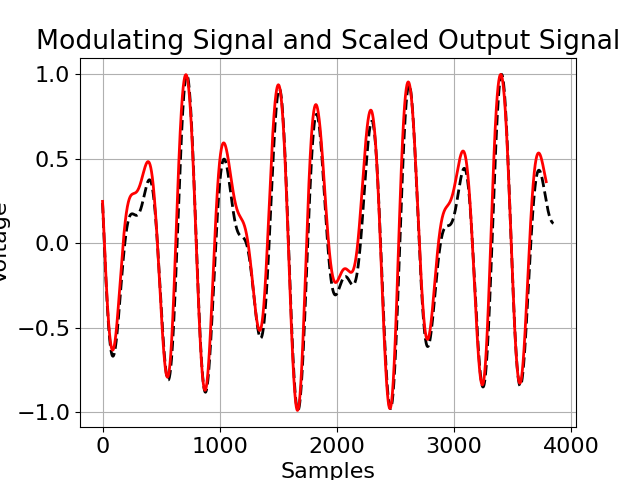
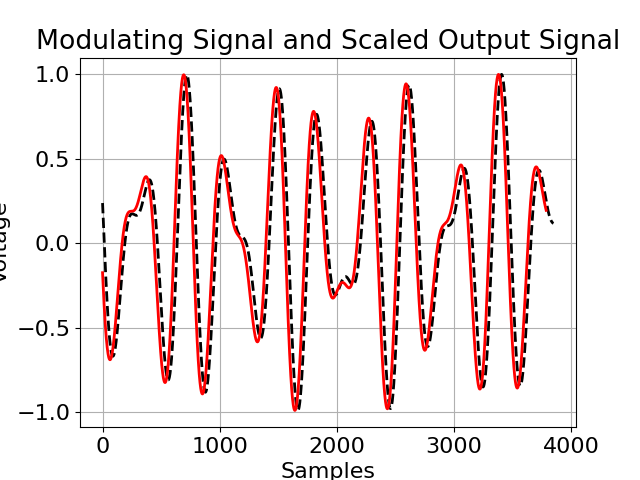
Updated LPF. Used wide range LPF (passband - 0.1fs; stopband - 0.35*fs)

Changed region(s): [[0.1562, 0.1562, 0.6875, 0.875], [0.6875, 0.1562, 0.875, 0.8125]]

diff --git a/demodulator_nfm/demodulator_nfm.py b/demodulator_nfm/demodulator_nfm.py
@@ -8,9 +8,15 @@ class DemodulatorNFM():
         # Digital Filter coefficients
         # LPF, IIR, Order 1. Pass band 0.01*fs, Stop band 0.1*fs, attenuation in stop band -20dB.
         # Numerator coefficients
-        self.DF_BCOEF = [0.03054, 0.03054]
+        # self.DF_BCOEF = [0.03054, 0.03054]
+        # # Denumerator coefficients
+        # self.DF_ACOEF = [1.0, -0.9389]
+
+        # LPF, IIR, Order 1. Pass band 0.1*fs, Stop band 0.35*fs, attenuation in stop band -20dB.
+        # Numerator coefficients
+        self.DF_BCOEF = [0.1584, 0.1584]
         # Denumerator coefficients
-        self.DF_ACOEF = [1.0, -0.9389]
+        self.DF_ACOEF = [1.0, -0.6832]
 
         self.sampling_freq = sampling_freq
         self.localosc_sampling_freq = int(sampling_freq / oversampling_ratio)

diff --git a/demodulator_nfm/demodulator_model.py b/demodulator_nfm/demodulator_model.py
@@ -31,9 +31,15 @@ max_phase_deviation = FM1_FREQ_SENSITIVITY * (DISCRIMINATOR_DELAY / SAMPLING_FRE
 # Digital Filter coefficients
 # LPF, IIR, Order 1. Pass band 0.01*fs, Stop band 0.1*fs, attenuation in stop band -20dB.
 # Numerator coefficients
-DF_BCOEF = [ 0.03054, 0.03054 ]
+# DF_BCOEF = [ 0.03054, 0.03054 ]
+# # Denumerator coefficients
+# DF_ACOEF = [ 1.0, -0.9389]
+
+# LPF, IIR, Order 1. Pass band 0.1*fs, Stop band 0.35*fs, attenuation in stop band -20dB.
+# Numerator coefficients
+DF_BCOEF = [0.1584, 0.1584]
 # Denumerator coefficients
-DF_ACOEF = [ 1.0, -0.9389]
+DF_ACOEF = [1.0, -0.6832]
 # =========== USER DEFINES (end) =============
 
 # Buffers to store digital filter internal data
